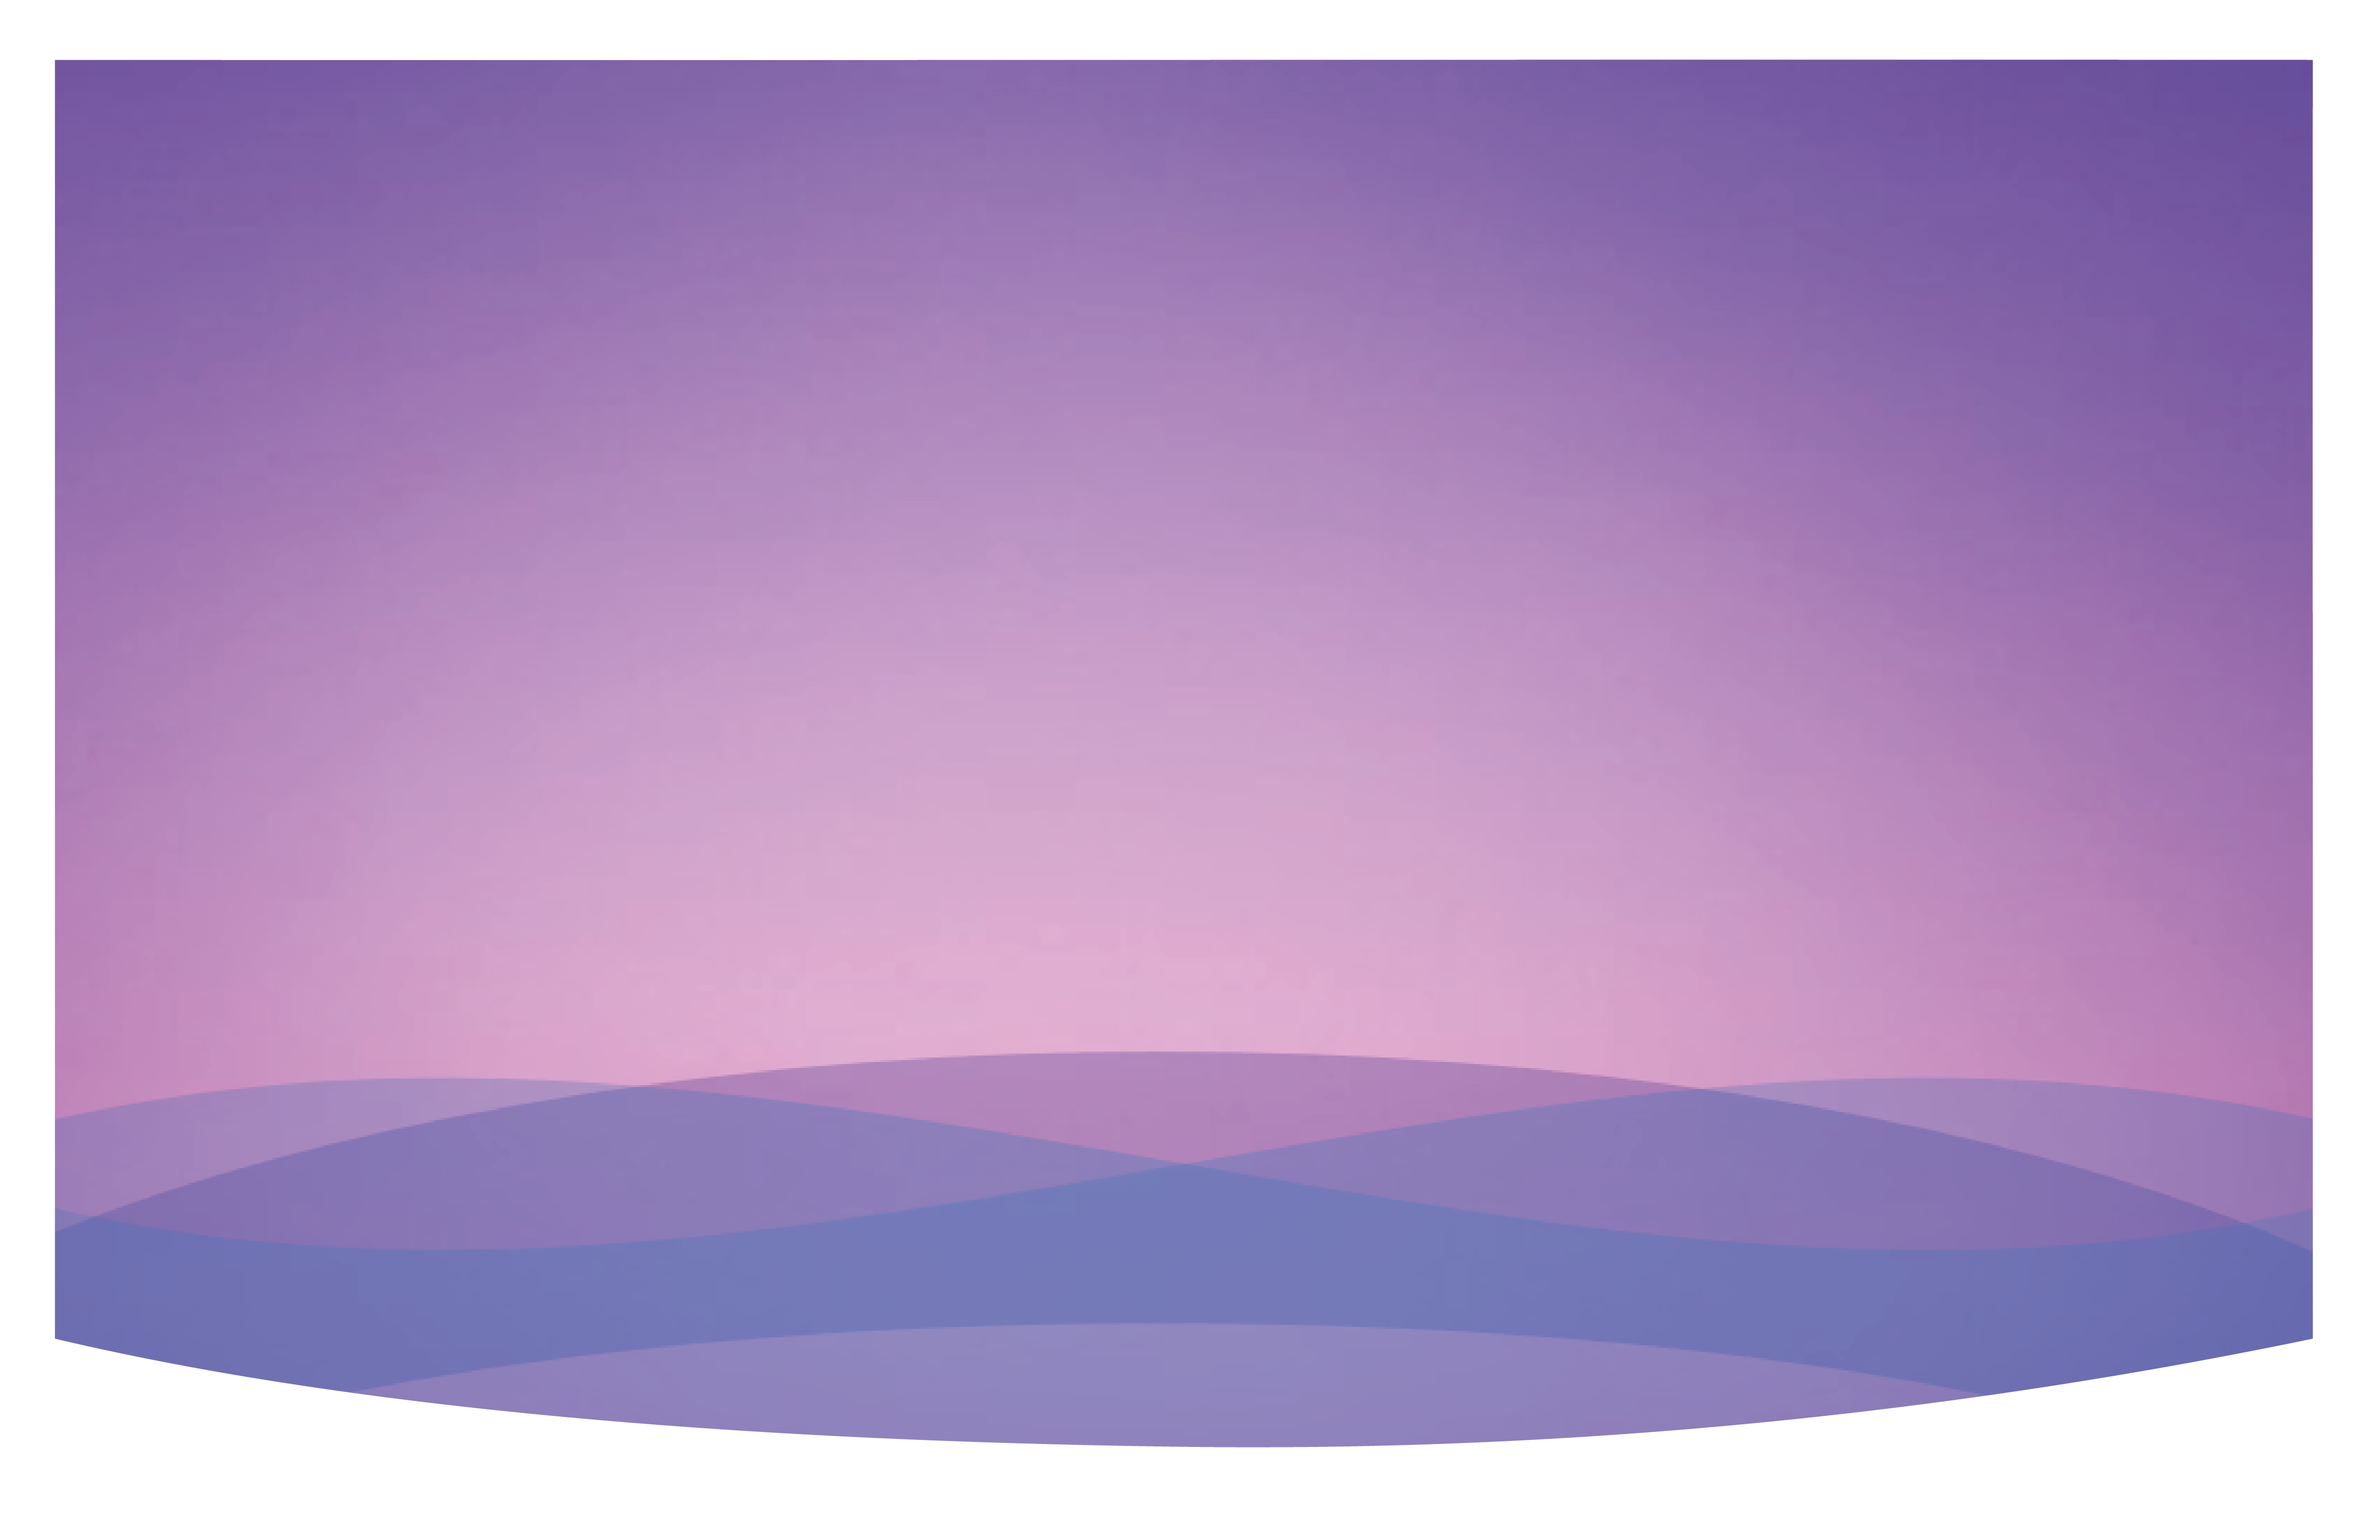
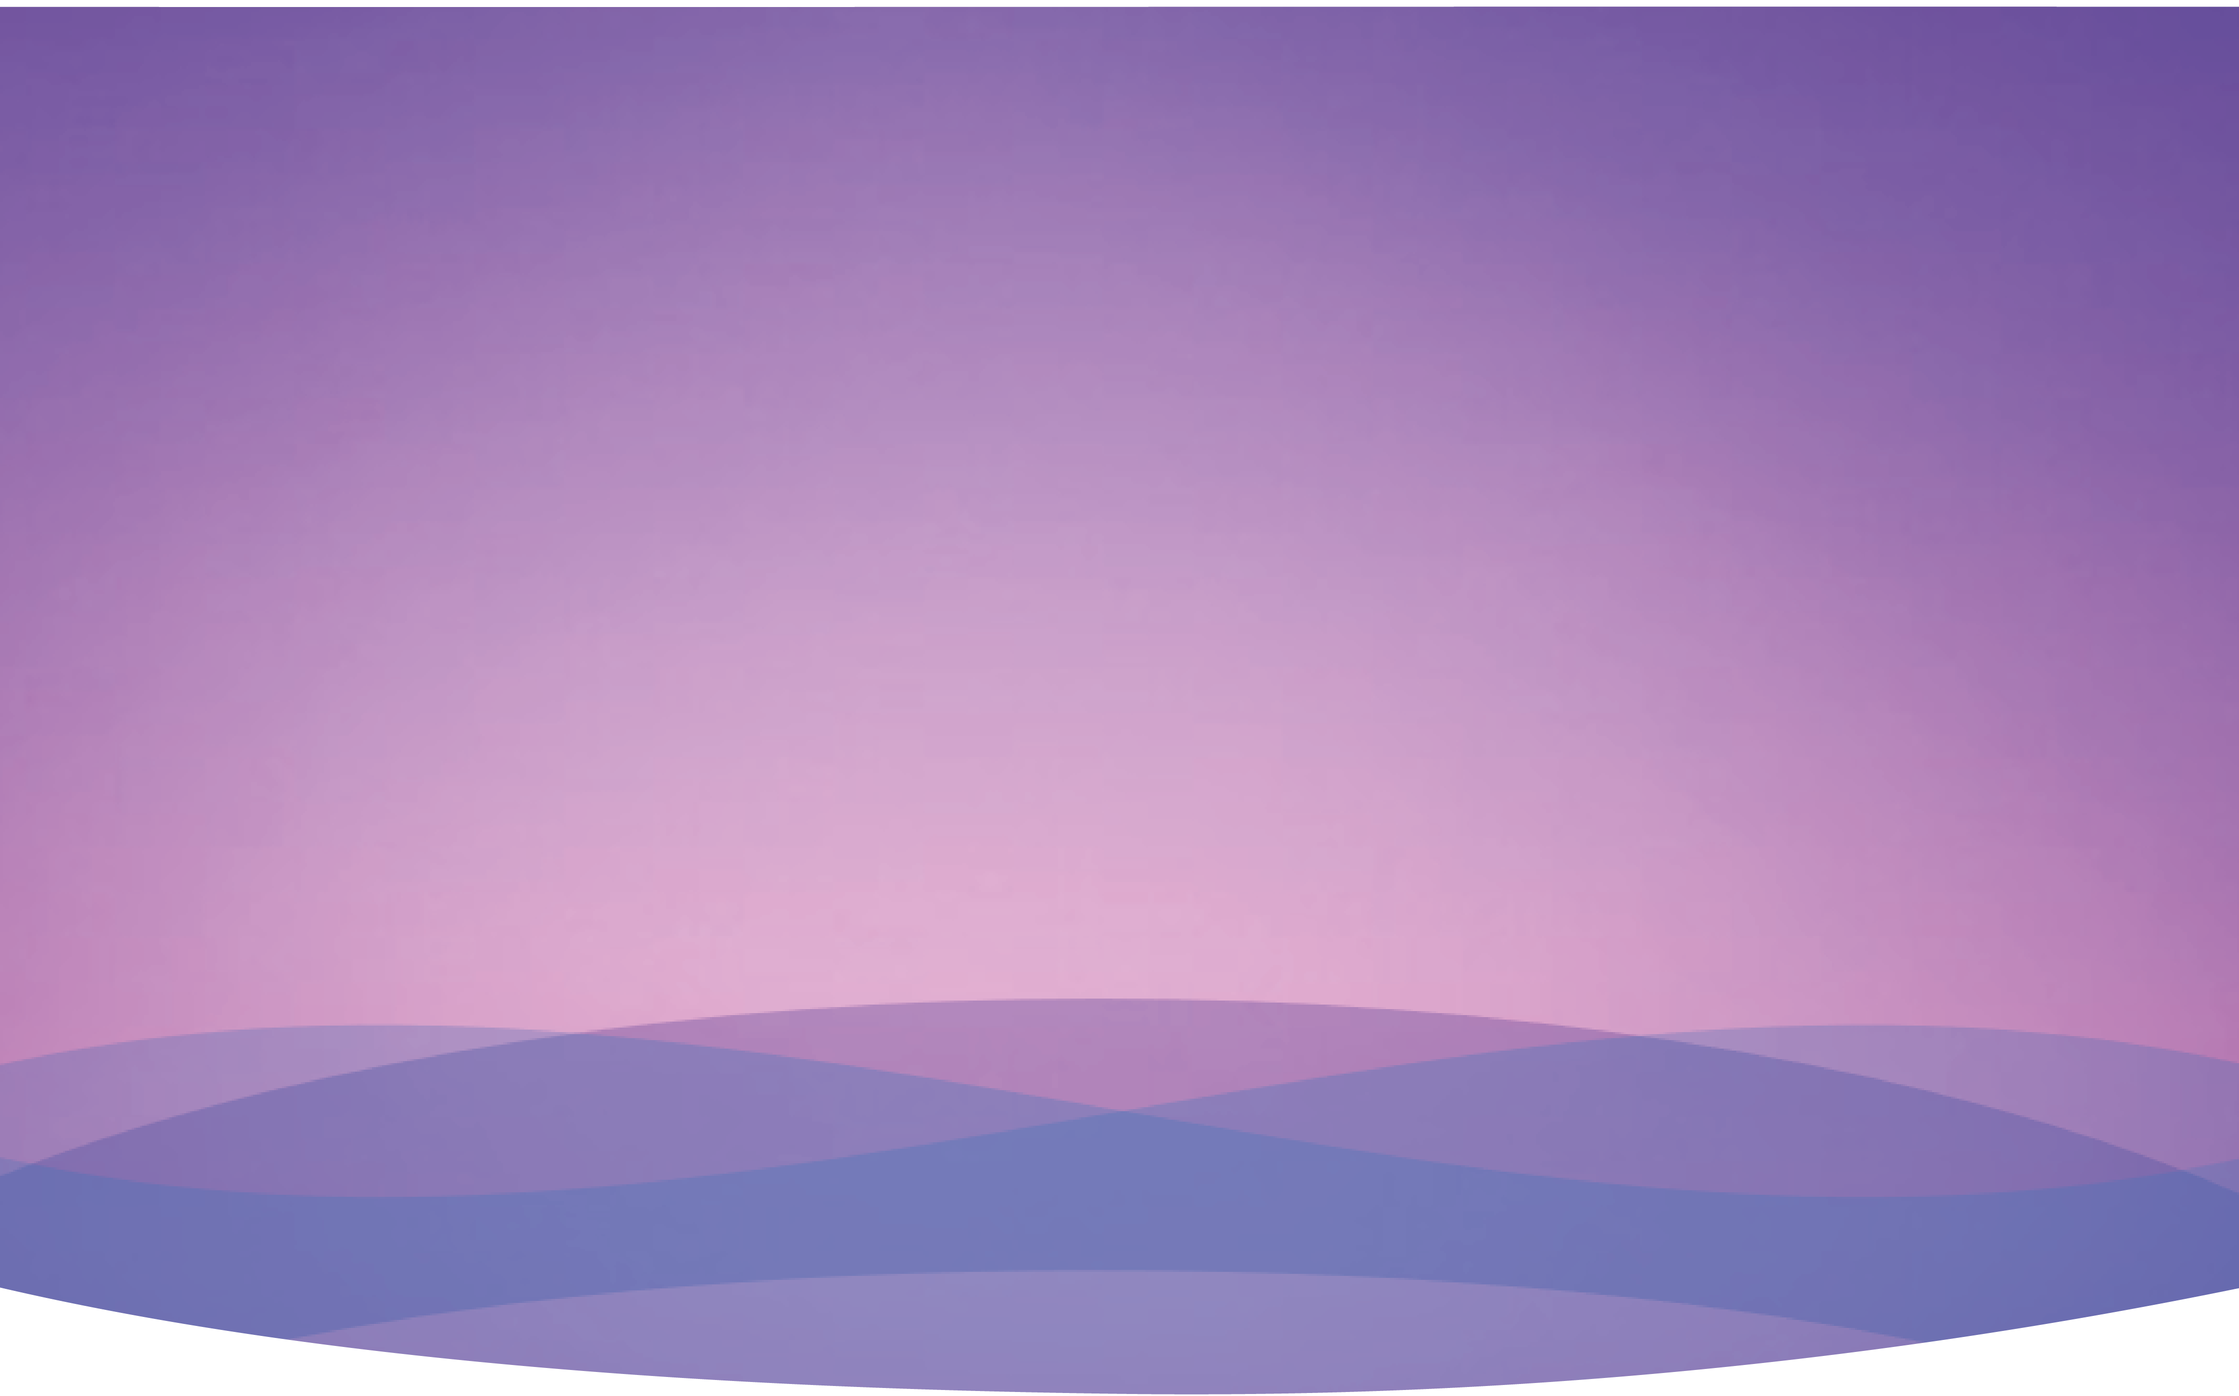
estilo

Changed region(s): [[0.0, 0.0, 1.0, 1.0], [0.2176, 0.811, 0.2487, 0.8422]]

diff --git a/index.html b/index.html
@@ -11,8 +11,8 @@
 
     <link rel="icon" type="image/png" sizes="16x16" href="Assets/images/favicon-16x16.png" />
     <!-- Estilos css -->
-    <link href="Assets/css/normalize.css" rel="stylesheet" />
-    <link rel="stylesheet" href="Assets/css/estilos.css" />
+    <link href="assets/css/normalize.css" rel="stylesheet" />
+    <link rel="stylesheet" href="assets/css/estilos.css" />
 
     <link rel="stylesheet" href="https://use.fontawesome.com/releases/v5.15.4/css/all.css">
     <link rel="stylesheet" href="https://use.fontawesome.com/releases/v5.15.4/css/v4-shims.css">
@@ -26,7 +26,7 @@
         <div class="menunavegacion">
             <div class="logo">
                 <a href="#">
-                    <img src="Assets/images/logobibi.png" alt="Icon of Portfolio" />
+                    <img src="assets/images/logobibi.png" alt="Icon of Portfolio" />
                 </a>
             </div>
 
@@ -49,7 +49,7 @@
                         <li class="nav-item">
 
                             <button onclick="darkmode()" class="button-dark"> <img id="container-modo-icono" alt="icon theme"
-                                    src="Assets/images/luna.svg" alt="burger Menu"
+                                    src="assets/images/luna.svg" alt="burger Menu"
                                     class="container-modo__icono"></i></button>
                         </li>
                     </ul>
@@ -61,20 +61,20 @@
     </header>
 
     <main>
-        <div class="divpresentacion" id="divpresentacion">
+        <section class="divpresentacion" id="divpresentacion">
             <p class="titulo-soy">Soy</p>
             <h1 class="nombre">Bibiana Baldrich</h1>
             <h2 class="profesion">Desarrolladora Web</h2>
             <div class="boton-presentacion">
-                <a target="_blank" rel="noreferrer" href="Assets/English CV.pdf" class="cv_button">Download CV</a>
+                <a target="_blank" rel="noreferrer" href="assets/English CV.pdf" class="cv_button">Download CV</a>
             </div>
         
             <div class="boton-presentacion" id="btn-contacto">
                 <a href="#divcontacto" class="btn-iniciar-sesion">CONTACTAR</a>
             </div>
-        </div>
+        </section>
 
-        <div class="divsobremi" id="divsobremi">
+        <section class="divsobremi" id="divsobremi">
             <h3>SOBRE MI</h3>
             <div class="divsobremi-texto">
 
@@ -82,9 +82,9 @@
             <div class="divsobremi-foto">
 
             </div>
-        </div>
+        </section>
 
-        <div class="divtecnologias" id="divtecnologias">
+        <section class="divtecnologias" id="divtecnologias">
             <h3>TECNOLOGIA</h3>
             <div class="divtecnologias-item"></div>
             <div class="divtecnologias-item"></div>
@@ -94,9 +94,9 @@
             <div class="divtecnologias-item"></div>
             <div class="divtecnologias-item"></div>
             <div class="divtecnologias-item"></div>
-        </div>
+        </section>
 
-        <div class="divservicios" id="divservicios">
+        <section class="divservicios" id="divservicios">
             <h3>SERVICIOS</h3>
             <div class="divservicios-item"></div>
             <div class="divservicios-item"></div>
@@ -104,9 +104,9 @@
             <div class="divservicios-item"></div>
             <div class="divservicios-item"></div>
             <div class="divservicios-item"></div>
-        </div>
+        </section>
 
-        <div class="divproyectos" id="divproyectos">
+        <section class="divproyectos" id="divproyectos">
             <h3>PROYECTOS</h3>
             <div class="divproyectos-item"></div>
             <div class="divproyectos-item"></div>
@@ -116,9 +116,9 @@
             <div class="divproyectos-item"></div>
             <div class="divproyectos-item"></div>
             <div class="divproyectos-item"></div>
-        </div>
+        </section>
 
-        <div class="divcontacto" id="divcontacto">
+        <section class="divcontacto" id="divcontacto">
             <h3>CONTACTO</h3>
             <h4>¡Envíame un correo!</h4>
             <form action="">
@@ -128,16 +128,16 @@
                 <input type="text" name="" id="">
                 <input type="submit" value="">
             </form>
-        </div>
+        </section>
 
-        <div class="divredessociales" id="divredessociales">
+        <section class="divredessociales" id="divredessociales">
             <i class="fab fa-linkedin"></i>
             <i class="fab fa-github-square"></i>
             <i class="fab fa-twitter-square"></i>
             <i class="fab fa-instagram-square"></i><i class="fab fa-facebook-square"></i>
             <i class="fab fa-whatsapp-square"></i>
             <i class="fab fa-facebook-square"></i>
-        </div>
+        </section>
     </main>
     Lorem ipsum dolor sit amet consectetur
     , adipisicing elit. Sunt odio odit sed corrupti atque

diff --git a/Assets/css/estilos.css b/Assets/css/estilos.css
@@ -158,8 +158,6 @@ header {
 .divpresentacion {
     width: 100%;
     height: 500px;
-
-
     background: url(../images/fonfo.png) no-repeat center;
     -webkit-background-size: cover;
     -moz-background-size: cover;
@@ -168,6 +166,7 @@ header {
     /* height: 100%;
     width: 100% ; */
     text-align: center;
+    border-radius: 0px 0px 500px 500px / 0px 0px 30px 30px;
 }
 
 .titulo-soy {
